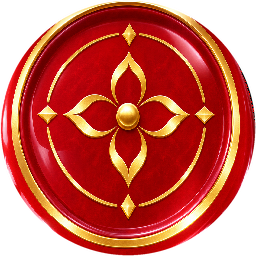
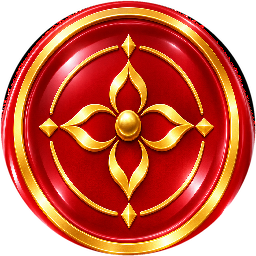
Carrom: new queen and striker art, rack inside the centre ring
- The supplied red queen and blue striker are used as round top faces
  (mapped from their tilted artwork), so they no longer look squashed.
- Coins are sized and spaced so the rack sits wholly inside the board's
  black centre ring with a hair of space between neighbours; a test now
  checks both.

Claude-Session: https://claude.ai/code/session_012rtvhD4k8JPKrUCCDGJ4PR

diff --git a/test/carrom_test.dart b/test/carrom_test.dart
@@ -28,16 +28,20 @@ void main() {
         ..pocketed = false
         ..pos = at;
 
-  test('racks nine white, nine black and the queen without overlaps', () {
+  test('racks nine white, nine black and the queen inside the ring, apart', () {
     final g = game();
     expect(g.pieces.where((p) => p.kind == PieceKind.white).length, 9);
     expect(g.pieces.where((p) => p.kind == PieceKind.black).length, 9);
     expect(g.queen.pos, Carrom.centre);
     for (final a in g.pieces) {
+      if (a == g.striker) continue;
+      // Every coin lies wholly inside the centre ring...
+      expect((a.pos - Carrom.centre).distance + a.radius,
+          lessThanOrEqualTo(Carrom.centreRing));
       for (final b in g.pieces) {
-        if (a != b) {
-          expect((a.pos - b.pos).distance,
-              greaterThanOrEqualTo(a.radius + b.radius - 1e-9));
+        // ...and none touches or overlaps another.
+        if (a != b && b != g.striker) {
+          expect((a.pos - b.pos).distance, greaterThan(a.radius + b.radius));
         }
       }
     }

diff --git a/lib/game/carrom_game.dart b/lib/game/carrom_game.dart
@@ -22,7 +22,11 @@ class CarromPiece {
 abstract final class Carrom {
   static const left = .110, right = .890, top = .1165, bottom = .8835;
   static const centre = Offset(.5, .5);
-  static const coinR = .0245, strikerR = .0315;
+  static const coinR = .021, strikerR = .029;
+
+  /// The inner edge of the black ring round the centre: the racked coins
+  /// must all sit inside it.
+  static const centreRing = .114;
   static const pockets = [
     Offset(.1252, .1292),
     Offset(.8757, .1300),
@@ -104,7 +108,8 @@ class CarromGame {
   int remaining(int team) => 9 - pocketed[team];
 
   void _rack() {
-    const gap = Carrom.coinR * 2.04;
+    // A hair of space between neighbours so no two coins ever overlap.
+    const gap = Carrom.coinR * 2.06;
     pieces.add(CarromPiece(PieceKind.queen, Carrom.centre));
     for (var i = 0; i < 6; i++) {
       final a = i * pi / 3 + pi / 6;
